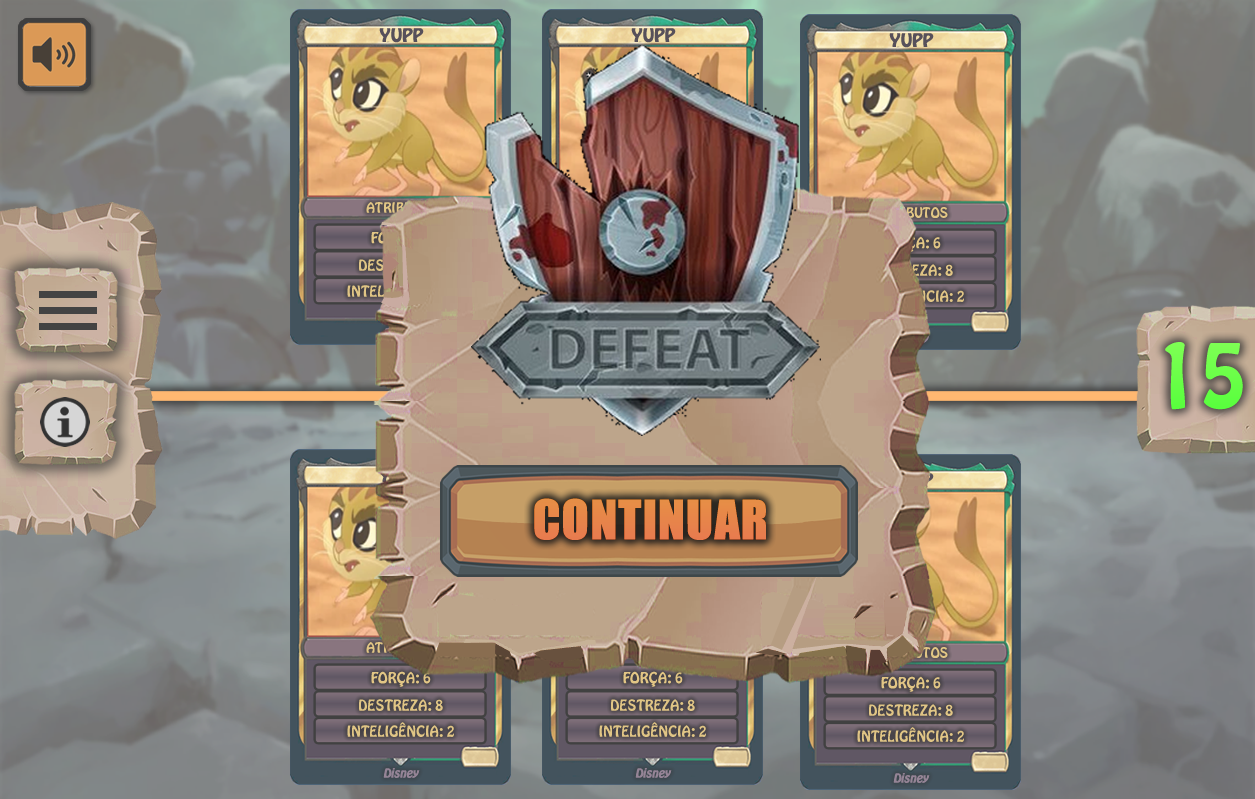
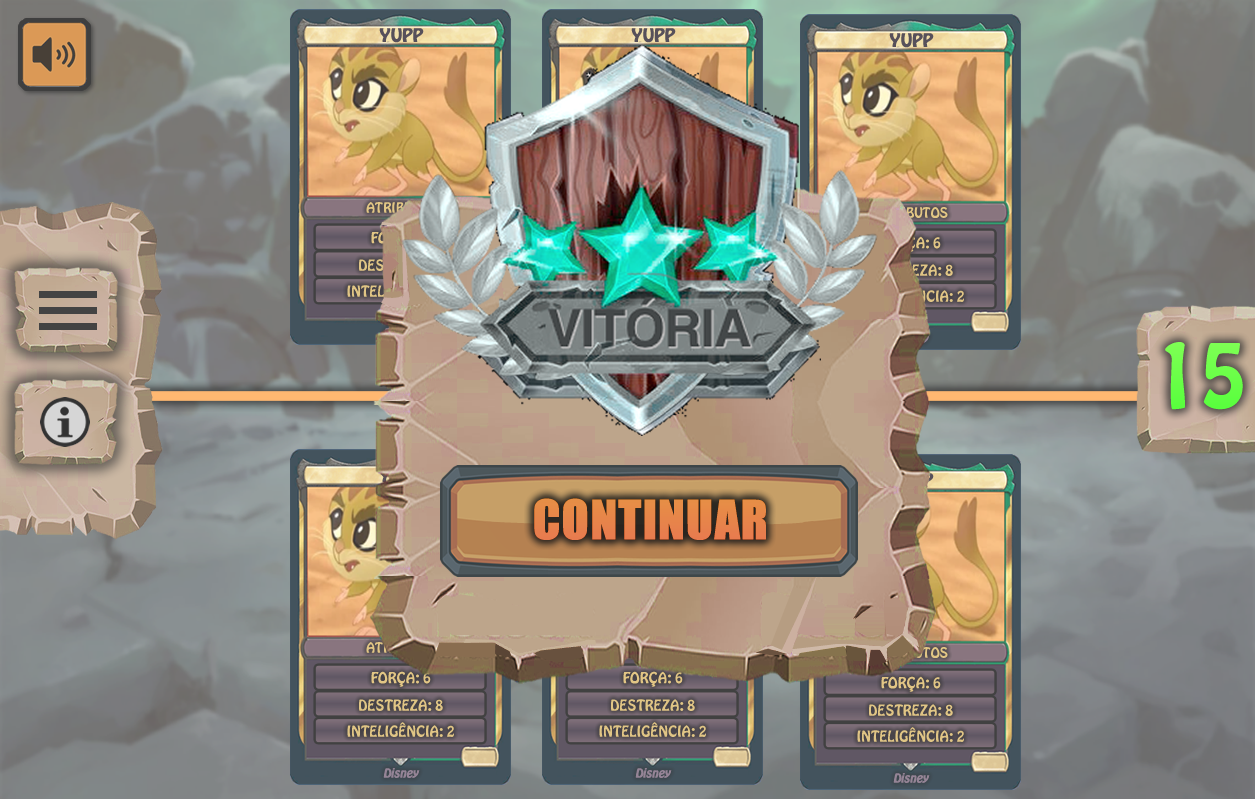
criacao/estilizacao do modal de vitoria/derrota

Changed region(s): [[0.3108, 0.0601, 0.7147, 0.5407]]

diff --git a/src/components/menuVitória&Derrota/MenuVitoriaDerrota.tsx b/src/components/menuVitória&Derrota/MenuVitoriaDerrota.tsx
@@ -1,0 +1,98 @@
+import { useEffect, useRef, useState } from "react";
+import { useSelector } from "react-redux";
+import { useStoreDispatch } from "../../redux/store/configureStore";
+import { useNavigate } from "react-router-dom";
+import { RootState } from "../../redux/store/configureStore";
+import IMGModalMenuMaior from "../../resources/images/menu-maior.png";
+import IMGLogoVitoria from "../../resources/images/vitoria_logo.png";
+import IMGLogoDerrota from "../../resources/images/derrota_logo.png";
+import botaoPadrao from "../../resources/images/botao-padrao.png";
+import { setDerrotaModal, setVitoriaModal } from "../../redux/slices/modalSlice"
+import { activateEffect } from "../../redux/slices/soundSlice";
+import { setPendingStartAnimation } from "../../redux/slices/extraAnimationsSlice";
+import { setUserReadyState } from "../../redux/slices/setCardsSlice";
+
+function MenuVitoriaDerrota() {
+    const { modalVitoriaActive, modalDerrotaActive } = useSelector((state : RootState) => state.modalStatus);
+    const { cardsPreLoadingState } = useSelector((state : RootState) => state.loadingScreen);
+    const [modalLogo, setModalLogo] = useState(IMGLogoDerrota);
+    const divModalMenu : any = useRef();
+    const textoConfirmar : any = useRef();
+    const botaoConfirmar : any = useRef();
+    const navigate = useNavigate();
+    const dispatch = useStoreDispatch();
+
+    const confirmButtonHandler = () => {
+        if (modalVitoriaActive && !cardsPreLoadingState) {
+
+            dispatch(setVitoriaModal(false));
+            dispatch(activateEffect('botaoPadrao'));
+            dispatch(setUserReadyState(true))
+
+        } else if (modalDerrotaActive) {
+            dispatch(setDerrotaModal(false));
+            dispatch(setPendingStartAnimation(true));
+            dispatch(activateEffect('botaoPadrao'));
+            navigate('/tela-inicial');
+            
+        } else if (cardsPreLoadingState) {
+            dispatch(activateEffect('botaoNegativo'));
+        };
+    };
+
+    useEffect(() => {
+        if (cardsPreLoadingState && modalVitoriaActive) 
+        {
+            botaoConfirmar.current.classList.add("pretoEBranco");
+            botaoConfirmar.current.classList.add("cursor-padrao");
+            botaoConfirmar.current.classList.remove("hover:brightness-110");
+            botaoConfirmar.current.classList.remove("brightness-[0.85]");
+        } else {
+            botaoConfirmar.current.classList.remove("pretoEBranco");
+            botaoConfirmar.current.classList.remove("cursor-padrao");
+            botaoConfirmar.current.classList.add("hover:brightness-110");
+            botaoConfirmar.current.classList.add("brightness-[0.85]");
+        };
+    }, [cardsPreLoadingState])
+
+    useEffect(() => {
+        dispatch(setVitoriaModal(false));
+        dispatch(setDerrotaModal(false));
+    }, [])
+
+    const modalDisplayDefault : any = {
+        opacity: 0,
+        pointerEvents: "none",
+    };
+    const [ modalDisplay, setModalDisplay ] = useState(modalDisplayDefault);
+
+    useEffect(() => {
+        if (modalVitoriaActive || modalVitoriaActive) {
+            const buttonText : string = modalVitoriaActive 
+            ? "CONFIRMAR" : "TELA INICIAL";
+
+            setModalLogo(modalVitoriaActive 
+            ? IMGLogoVitoria : IMGLogoDerrota);
+
+            textoConfirmar.current.innerText = buttonText;
+
+            setModalDisplay({
+                opacity: 1,
+                pointerEvents: "auto"
+            });
+        } else {
+            setModalDisplay(modalDisplayDefault);
+        };
+    }, [modalVitoriaActive, modalVitoriaActive]);
+
+    return (
+        <div ref={divModalMenu} className="fixed flex items-center justify-center top-0 left-0 h-full w-full bg-black/50 z-10 backdrop-blur-[1.5px]" style={modalDisplay}>
+            <div className="relative flex flex-col items-center justify-center w-[calc(31vw+100px)] h-[calc(26vw+100px)] bg-100%" style={{backgroundImage:`url(${IMGModalMenuMaior})`}}>
+                <img src={modalLogo} className="absolute w-[70%] h-[85%] top-[-31%] sombra-padrao-img" />
+                <button ref={botaoConfirmar} className="min-w-[28%] w-[59%] h-[21%] bg-100% bg-no-repeat my-2 text-[3vw] font-bold brightness-[0.85] hover:brightness-110 top-[60%] absolute" style={{backgroundImage: `url(${botaoPadrao})`}} onClick={(() => { confirmButtonHandler(); })}><h3 className="gradiente-laranja" ref={textoConfirmar}>TELA INICIAL</h3></button>
+            </div>
+        </div>
+    );
+};
+
+export default MenuVitoriaDerrota;

diff --git a/src/pages/telaCombate/TelaCombate.tsx b/src/pages/telaCombate/TelaCombate.tsx
@@ -19,6 +19,7 @@ import { activateEffect, changeMusic } from "../../redux/slices/soundSlice";
 import completarTimesAPI from "../../requests/completarTimes";
 import { setCardsLoadingState, setCardsPreLoadingState } from "../../redux/slices/loadingSlice";
 import { setPendingResetDefeatedCards, setPendingStartAnimation } from "../../redux/slices/extraAnimationsSlice";
+import MenuVitoriaDerrota from "../../components/menuVitória&Derrota/MenuVitoriaDerrota";
 
 function TelaCombate() {
     const dispatch = useDispatch();
@@ -204,6 +205,7 @@ function TelaCombate() {
         <div className="h-full w-full px-2.5 flex flex-col" ref={telaCorpo}>
             <Pontuacao />
             <MenuOpcoes />
+            <MenuVitoriaDerrota />
             <MenuAjuda />
             <div className="h-[50%] flex items-end justify-center pb-1">
                 {!cardsInimigos.length && <BotaoGerarCards />} 

diff --git a/src/styles/global.css b/src/styles/global.css
@@ -86,6 +86,9 @@ h3 {
 .sombra-padrao {
     text-shadow: 2px 0 0 rgba(0, 0, 0, 0.3), -2px 0 0 rgba(0, 0, 0, 0.3), 0 2px 0 rgba(0, 0, 0, 0.3), 0 -2px 0 rgba(0, 0, 0, 0.3), 1px 1px rgba(0, 0, 0, 0.3), -1px -1px 0 rgba(0, 0, 0, 0.3), 1px -1px 0 rgba(0, 0, 0, 0.3), -1px 1px 0 rgba(0, 0, 0, 0.3);
 }
+.sombra-padrao-img {
+    filter: drop-shadow(1px 0 1px rgba(0, 0, 0, 0.22)) drop-shadow(-1px 0 1px rgba(0, 0, 0, 0.22)) drop-shadow(0 1px 1px rgba(0, 0, 0, 0.22)) drop-shadow(0 -1px 1px rgba(0, 0, 0, 0.22)) drop-shadow(0.7px 0.7px rgba(0, 0, 0, 0.22)) drop-shadow(-0.7px -0.7px 0 rgba(0, 0, 0, 0.22)) drop-shadow(0.7px -0.7px 1px rgba(0, 0, 0, 0.3)) drop-shadow(-0.7px 0.7px 1px rgba(0, 0, 0, 0.22));
+}
 .reset-filter {
     filter: none;
 }
